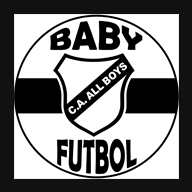
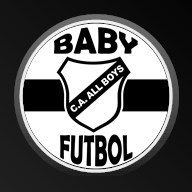
mejora iconos de instalacion pwa

diff --git a/reglamento.html b/reglamento.html
@@ -5,6 +5,7 @@
   <meta name="viewport" content="width=device-width, initial-scale=1">
   <title>Reglamento FEFI | Baby All Boys</title>
   <link rel="manifest" href="/manifest.webmanifest">
+  <link rel="apple-touch-icon" href="/icons/apple-touch-icon.png">
   <style>
     *{box-sizing:border-box}body{margin:0;background:radial-gradient(circle at top,#1a1a1a,#050505 44%,#000);color:#f5f5f5;font-family:Inter,system-ui,-apple-system,"Segoe UI",sans-serif}.shell{width:min(980px,100%);margin:0 auto;padding:20px 14px 44px}.hero{padding:22px 0 10px}.brand{display:flex;gap:12px;align-items:center;margin-bottom:18px}.mark{display:grid;place-items:center;width:48px;height:48px;border-radius:8px;background:#fff;color:#000;font-weight:1000}h1{margin:0;font-size:clamp(1.8rem,7vw,3.4rem);letter-spacing:0;line-height:1}.lead{color:#d8d8d8;line-height:1.5;max-width:720px}.actions{display:flex;gap:10px;flex-wrap:wrap;margin-top:18px}.btn{display:inline-flex;align-items:center;justify-content:center;min-height:42px;border-radius:7px;padding:0 14px;text-decoration:none;font-weight:1000}.btn.primary{background:#fff;color:#000}.btn.secondary{background:#171717;color:#fff;border:1px solid #333}.grid{display:grid;gap:12px;margin-top:18px}.card{border:1px solid #292929;border-radius:8px;background:linear-gradient(180deg,#121212,#090909);box-shadow:0 20px 48px rgba(0,0,0,.28);padding:16px}.card h2{margin:0 0 8px;font-size:1.08rem}.card p,.card li{color:#d4d4d4;line-height:1.45}.card ul{margin:0;padding-left:18px}.notice{border-color:#fff;background:#f5f5f5;color:#000}.notice p{color:#111}.footer{margin-top:22px;color:#999;font-size:.9rem}@media(min-width:740px){.grid{grid-template-columns:repeat(2,minmax(0,1fr))}.card.wide{grid-column:1/-1}}
   </style>

diff --git a/index.html b/index.html
@@ -11,7 +11,7 @@
   <link rel="manifest" href="/manifest.webmanifest" />
   <link rel="stylesheet" href="css/app-enhancements.css" />
   <link rel="icon" href="/icons/icon-192.png" />
-  <link rel="apple-touch-icon" href="/icons/icon-192.png" />
+  <link rel="apple-touch-icon" href="/icons/apple-touch-icon.png" />
   <link rel="stylesheet" href="https://cdnjs.cloudflare.com/ajax/libs/font-awesome/6.5.0/css/all.min.css" />
   <style>
     :root{

diff --git a/sw.js b/sw.js
@@ -1,4 +1,4 @@
-const CACHE_NAME = 'baby-allboys-pwa-v4';
+const CACHE_NAME = 'baby-allboys-pwa-v5';
 const STATIC_CACHE = `${CACHE_NAME}-static`;
 const DATA_CACHE = `${CACHE_NAME}-data`;
 
@@ -14,6 +14,7 @@ const STATIC_ASSETS = [
   '/fondo.png',
   '/icons/icon-192.png',
   '/icons/icon-512.png',
+  '/icons/apple-touch-icon.png',
   '/icons/maskable-192.png',
   '/icons/maskable-512.png'
 ];
